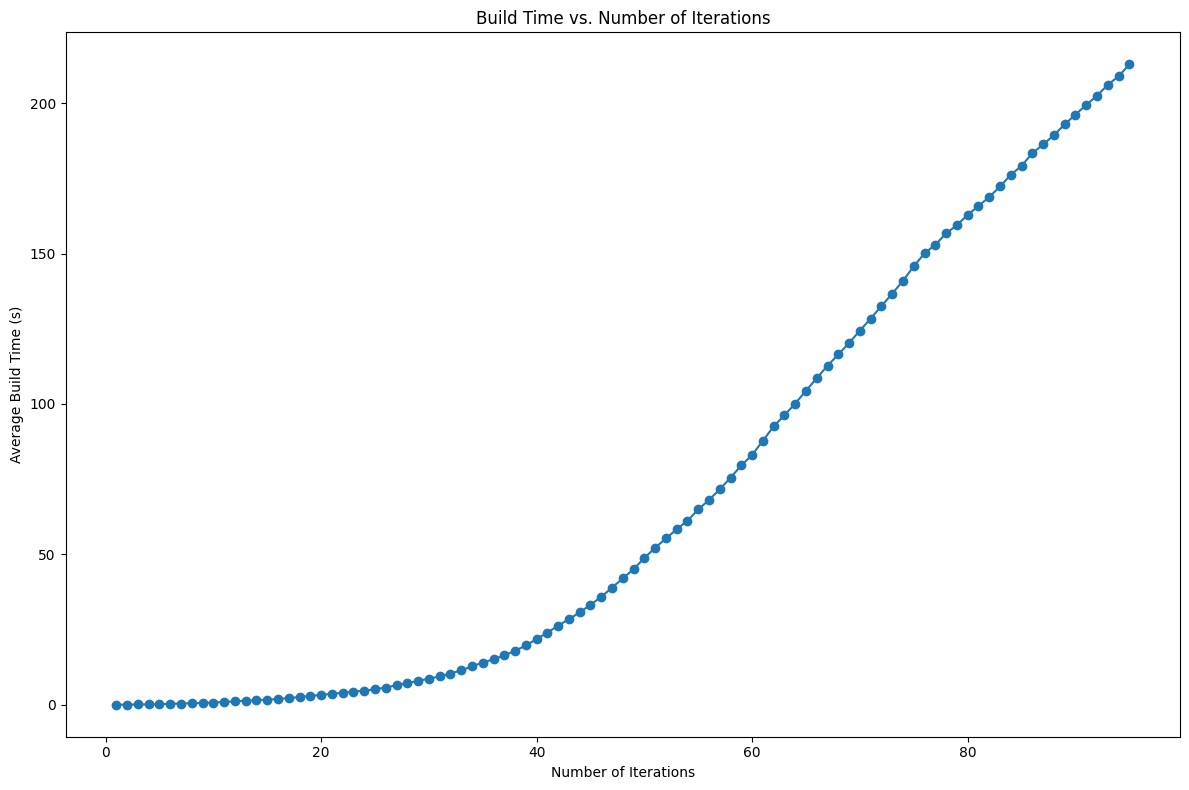
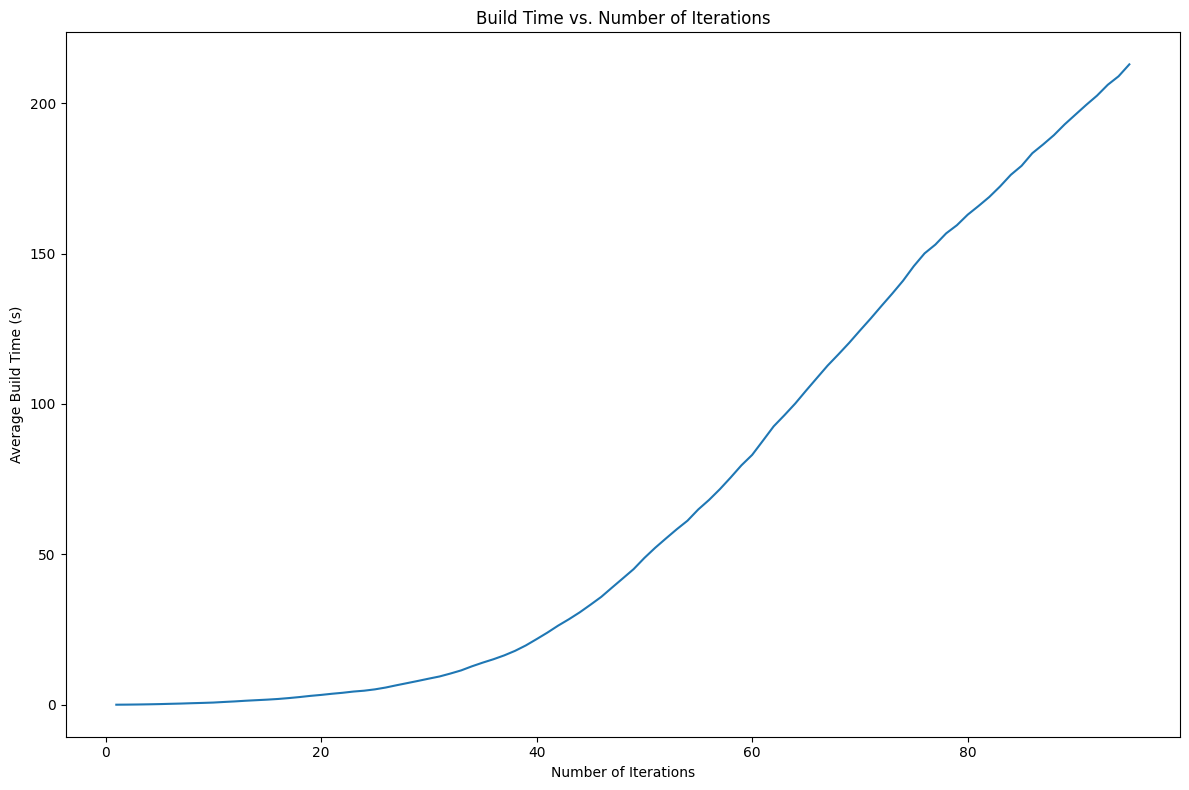
Updated complexity graph

diff --git a/results/03_01_25/complexity_graph.py b/results/03_01_25/complexity_graph.py
@@ -25,7 +25,7 @@ if __name__ == "__main__":
     iterations = sorted(iteration_dict.keys())
     avg_build_times = [sum(times) / len(times) for times in [iteration_dict[iter] for iter in iterations]]
 
-    plt.plot(iterations, avg_build_times, marker='o')
+    plt.plot(iterations, avg_build_times)
     plt.xlabel("Number of Iterations")
     plt.ylabel("Average Build Time (s)")
     plt.tight_layout()
